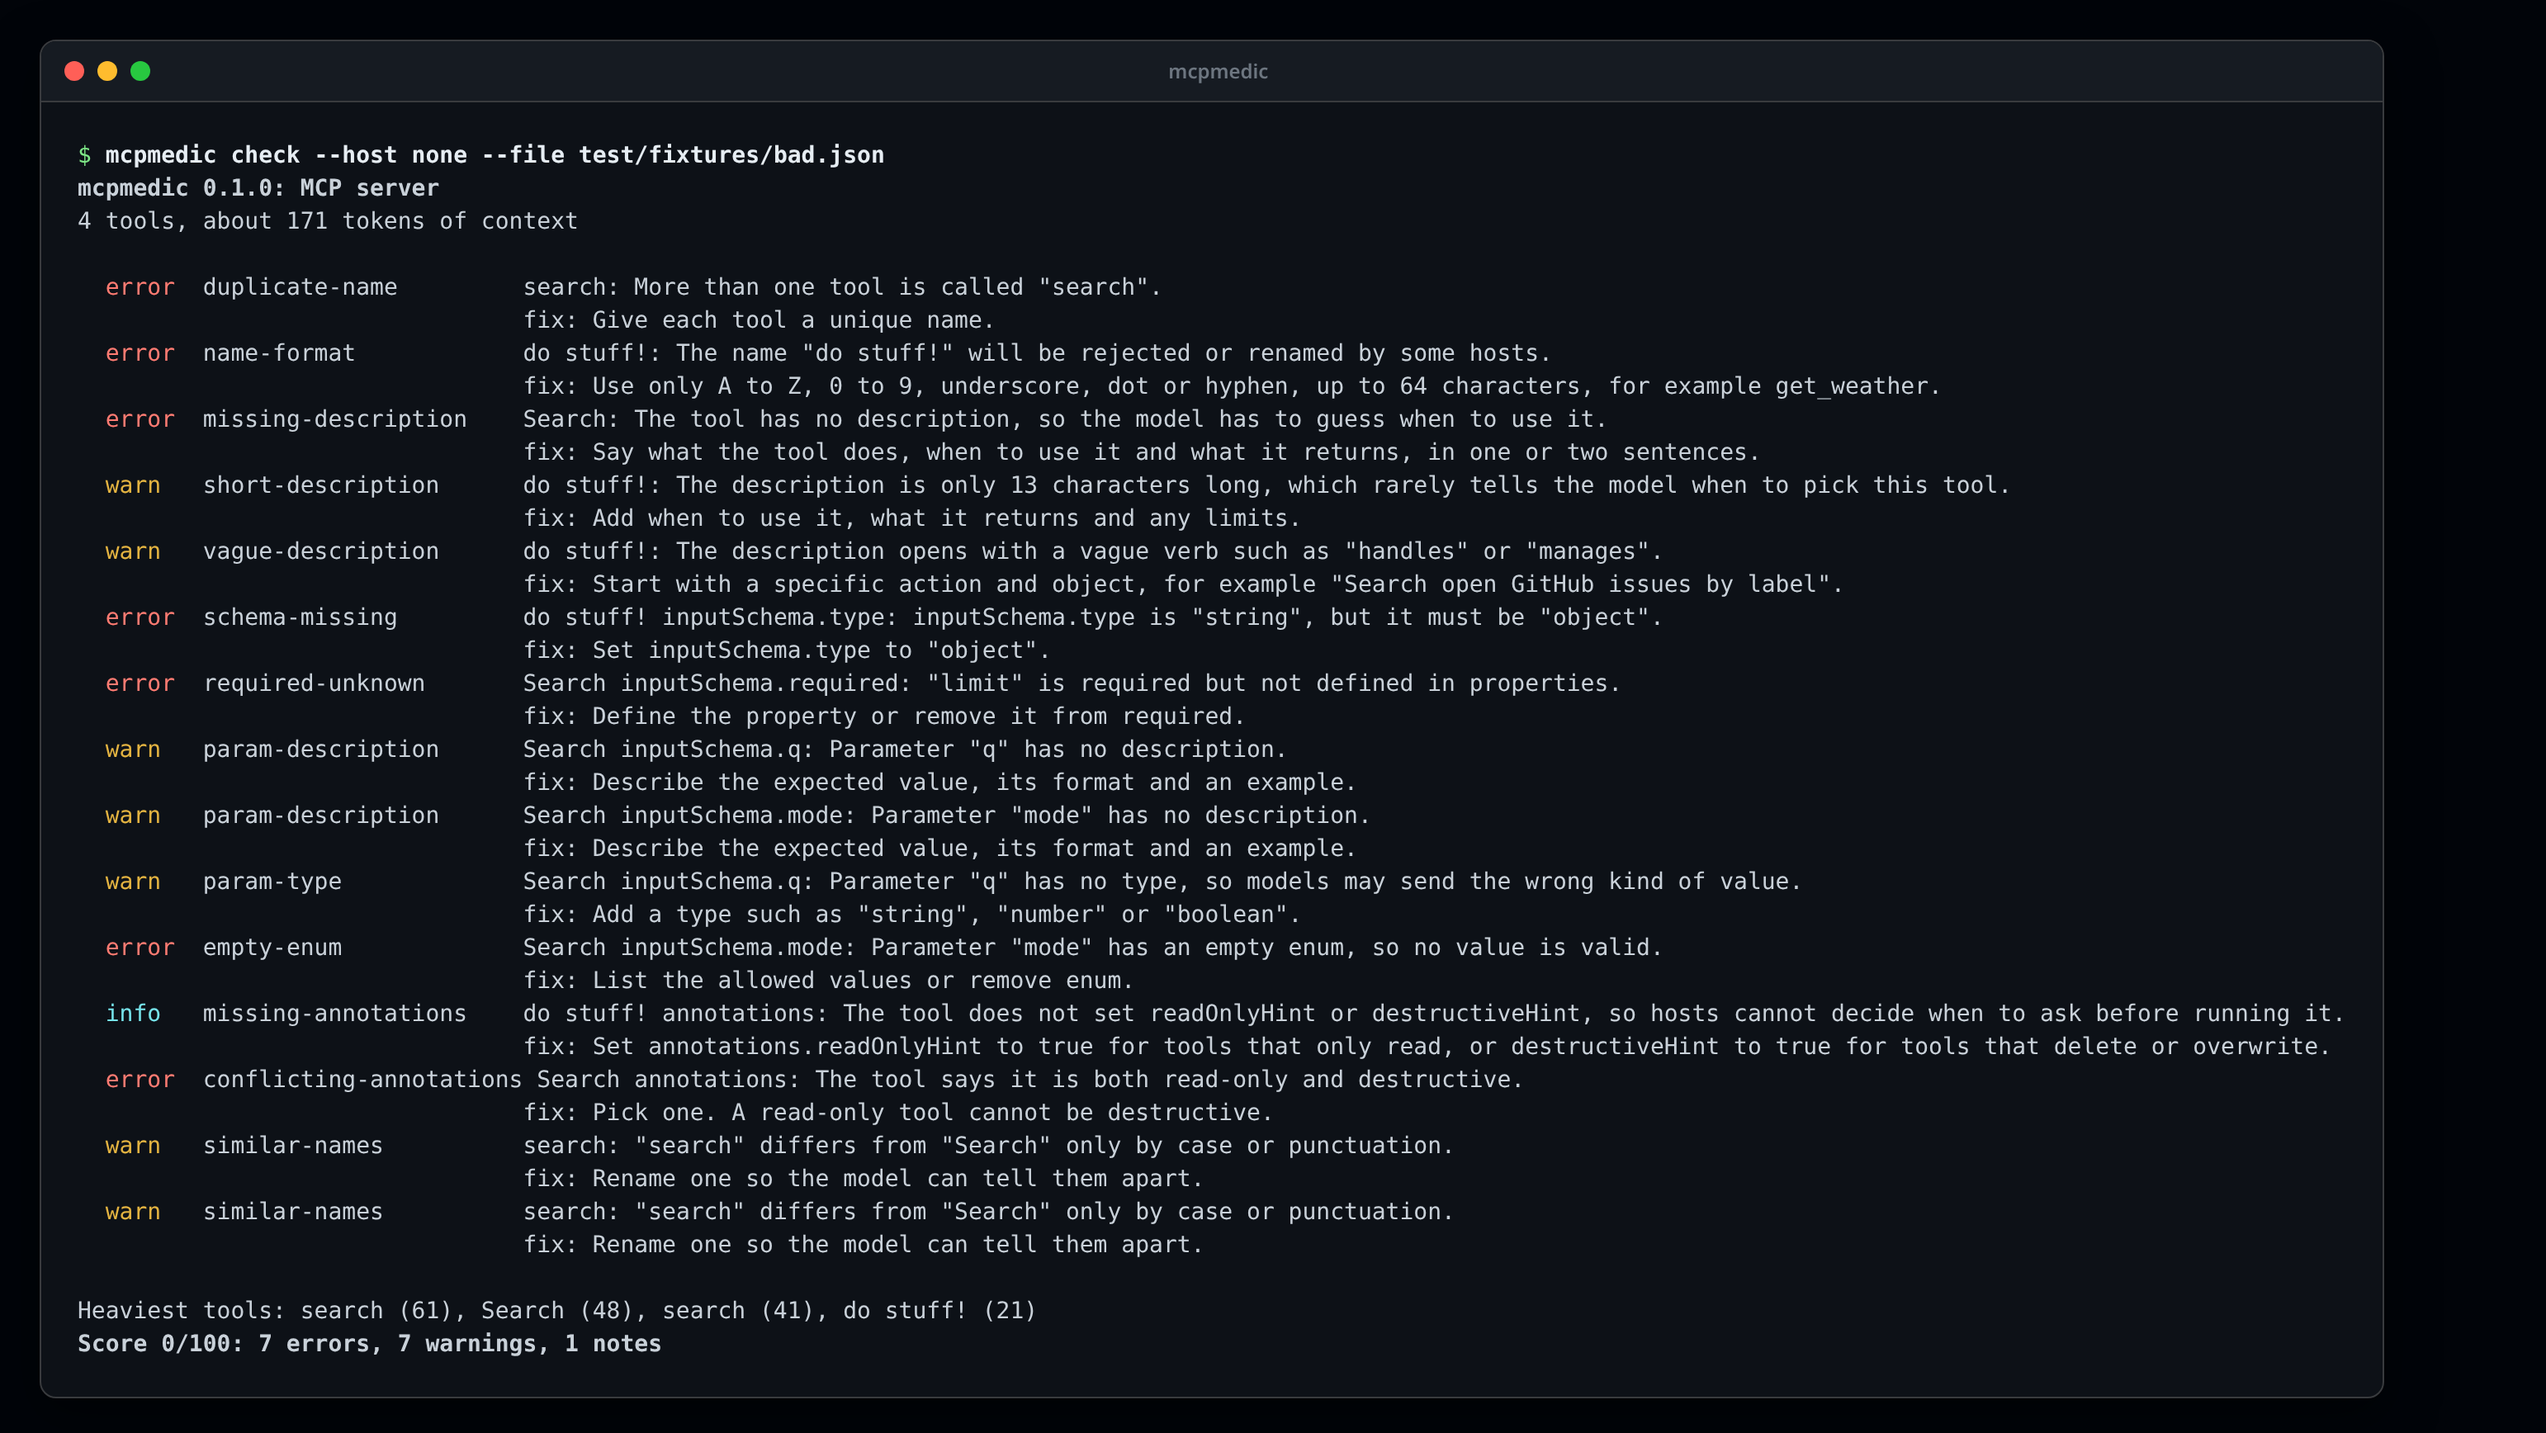
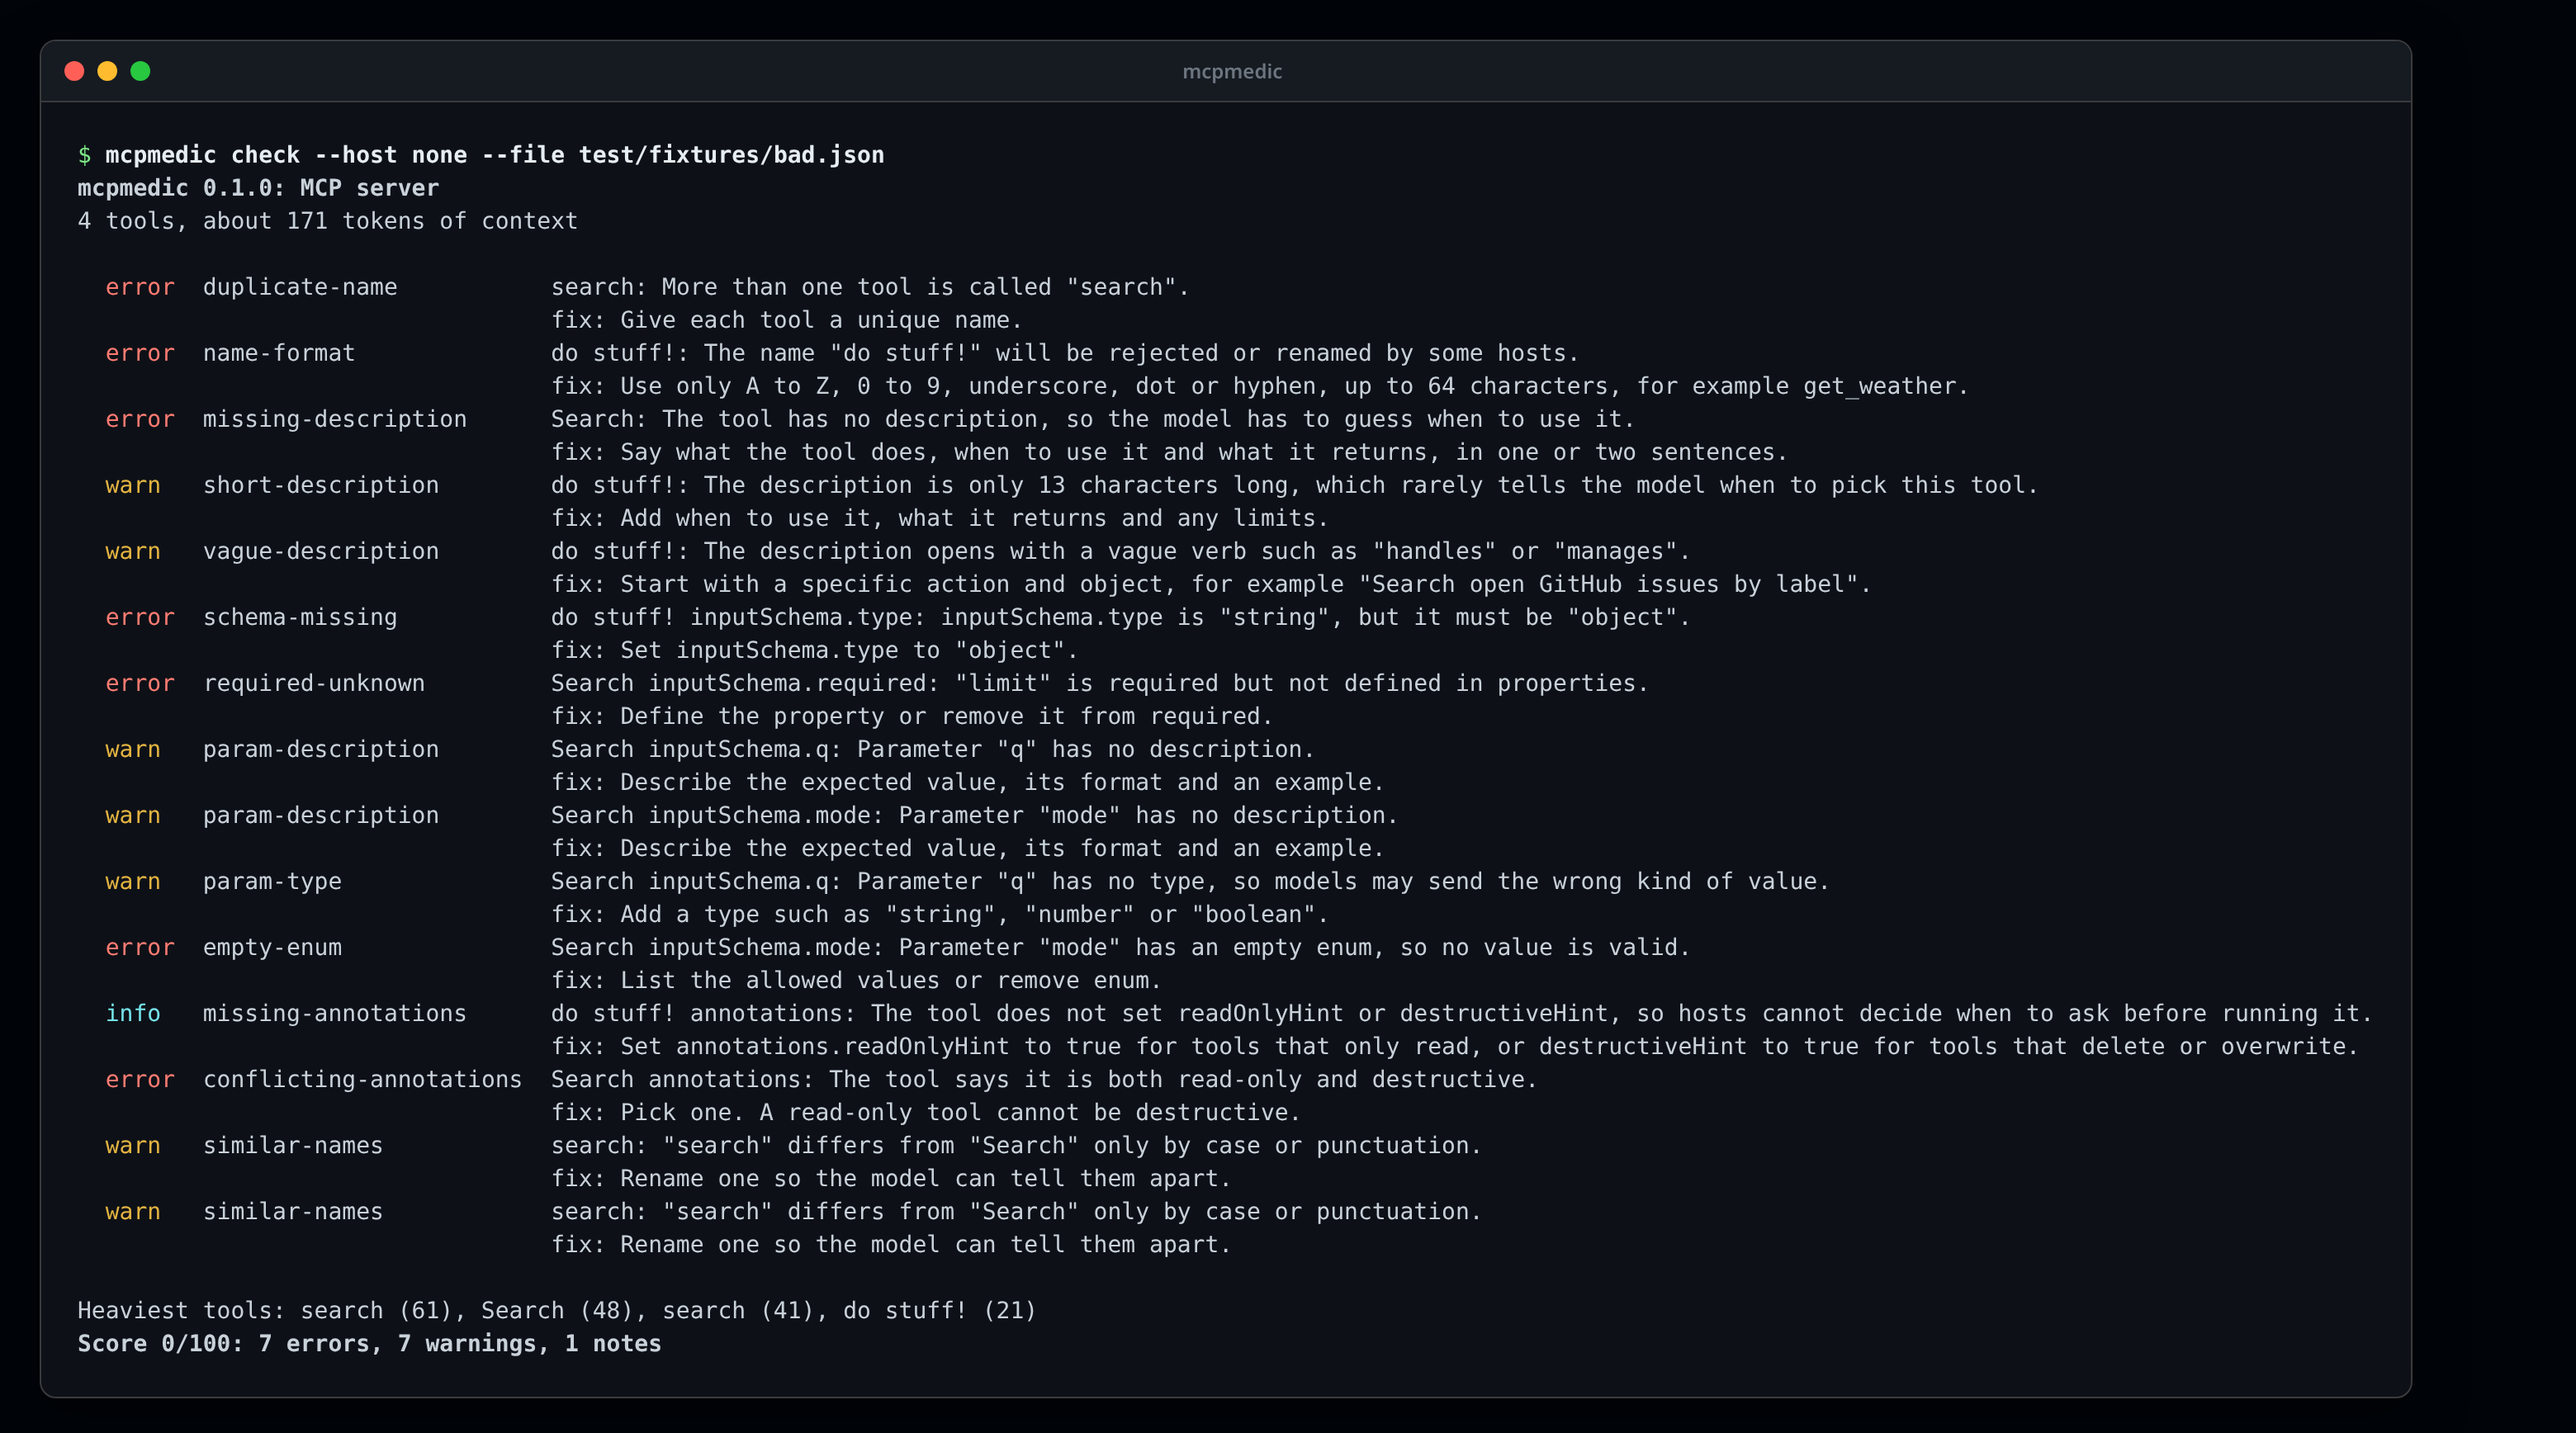
Update docs for 0.1.0 and drop the week-by-week roadmap

diff --git a/README.md b/README.md
@@ -9,11 +9,11 @@ An MCP server can pass every protocol test and still work badly in practice. Vag
 
 mcpmedic connects to your server, reads its tools, and tells you in plain language what will trip up an AI agent, how to fix it, and how much context each tool costs. It runs on your own machine, needs no account, and sends your data nowhere.
 
-> Status: early development (week 1 of 4). It is not on npm yet. Live probes, host rules, model-based evals and proven fixes are coming next. See the [roadmap](#roadmap).
+> Status: 0.1.0, the first public release. It checks tool definitions, probes live servers, applies host rules, runs tool-choice evals and proves description fixes. See the [changelog](CHANGELOG.md).
 
 ## What it checks
 
-18 checks today, all static (they read the tool definitions, they do not call your tools):
+20 static checks, which read the tool definitions without calling your tools. [Live probes](#live-probes) add 8 more.
 
 | Check | Level | What it means |
 | --- | --- | --- |
@@ -30,6 +30,8 @@ mcpmedic connects to your server, reads its tools, and tells you in plain langua
 | `param-type` | warning | Every parameter declares a type. |
 | `empty-enum` | error | Enums list at least one value. |
 | `missing-annotations` | info | Tools say whether they are read-only or destructive. |
+| `suspicious-instructions` | error | Descriptions describe the tool and do not give the model hidden orders (tool poisoning). |
+| `hidden-characters` | error | Descriptions contain no invisible or control characters. |
 | `conflicting-annotations` | error | Annotations do not contradict each other. |
 | `heavy-tool` | warning | No single tool costs more than about 800 tokens of context. |
 | `heavy-server` | warning | The whole tool list stays under about 10,000 tokens. |
@@ -80,7 +82,7 @@ Or install it once, which gives you the `mcpmedic` command:
 npm install -g @jmozez/mcpmedic
 ```
 
-The package is scoped because npm keeps the plain name for a similar existing package. The command is still `mcpmedic`. Version 0.0.0 on npm is only a placeholder. Until the first release, build from source:
+The package is scoped because npm keeps the plain name for a similar existing package. The command is still `mcpmedic`. To build from source:
 
 ```bash
 git clone https://github.com/jmozez/mcpmedic.git
@@ -106,13 +108,12 @@ mcpmedic check --file tools.json
 Example output:
 
 ```text
-mcpmedic 0.1.0-dev: MCP server
+mcpmedic 0.1.0: MCP server
 4 tools, about 171 tokens of context
 
-  error  duplicate-name         search: More than one tool is called "search".
-                                fix: Give each tool a unique name.
-  error  missing-description    Search: The tool has no description, so the model has to guess when to use it.
-                                fix: Say what the tool does, when to use it and what it returns, in one or two sentences.
+  error  duplicate-name           search: More than one tool is called "search".
+                                  fix: Give each tool a unique name.
+  error  name-format              do stuff!: The name "do stuff!" will be rejected or renamed by some hosts.
 ...
 ```
 
@@ -170,20 +171,23 @@ The HTML report is one self-contained page with no scripts, so you can attach it
 --rule <id>            run only this check (repeatable)
 --header "Name: value" add an HTTP header (repeatable), for example an Authorization header
 --env KEY=value        set an environment variable for a stdio server (repeatable)
---timeout <seconds>    give up after this long (default 30)
+--inherit-env          pass all of mcpmedic's environment to a stdio server (default: a minimal set, like MCP hosts)
+--timeout <seconds>    give up after this long, 1 to 3600 (default 30)
 ```
 
-Exit codes: 0 means no findings at or above `--fail-on`, 1 means there were, 2 means mcpmedic could not run (bad options or no connection).
+Exit codes: 0 means no findings at or above `--fail-on`, 1 means there were, 2 means mcpmedic could not run (bad options, an unknown rule or host, no connection, or a server that stopped answering).
+
+A stdio server gets a minimal environment (such as `PATH` and `HOME`) plus any `--env` values, as MCP hosts do. Your model API keys and CI tokens do not reach it. If your server needs more, pass it with `--env`, or use `--inherit-env`.
 
 ## GitHub Action
 
 ```yaml
-- uses: actions/checkout@v4
-- uses: actions/setup-node@v4
+- uses: actions/checkout@v7
+- uses: actions/setup-node@v7
   with:
     node-version: 22
 - run: npm ci && npm run build
-- uses: jmozez/mcpmedic@main
+- uses: jmozez/mcpmedic@v0
   id: medic
   with:
     command: node dist/server.js
@@ -192,17 +196,19 @@ Exit codes: 0 means no findings at or above `--fail-on`, 1 means there were, 2 m
 - run: echo "Score ${{ steps.medic.outputs.score }}"
 ```
 
-Inputs: `command`, `url` or `file` (pick one), `fail-on`, `probe`, `host` (comma-separated, or `none`), `html`, `badge` and `args` for any other options. The action writes a job summary and an HTML report, and outputs `score` and `report`. Pin a tag instead of `main` once there is a release.
+Inputs: `command`, `url` or `file` (pick one), `fail-on`, `probe`, `host` (comma-separated, or `none`), `html`, `badge` and `args` for any other options. The action writes a job summary and an HTML report, and outputs `score` and `report`. `@v0` follows the latest 0.x release. Pin `@v0.1.0` or a commit SHA for a fixed version.
+
+The action passes inputs to its script only as environment variables, splits `command` and `args` on spaces without glob expansion, and escapes server text in the job summary. If your server needs a secret, set it in the step's `env` and add `args: --inherit-env`, or use `args: --env NAME=value`.
 
 To see findings in the Security tab and on pull requests, write SARIF and upload it (the job needs `security-events: write`):
 
 ```yaml
-- uses: jmozez/mcpmedic@main
+- uses: jmozez/mcpmedic@v0
   with:
     file: tools.json
     sarif: mcpmedic.sarif
     fail-on: never
-- uses: github/codeql-action/upload-sarif@v3
+- uses: github/codeql-action/upload-sarif@v4
   with:
     sarif_file: mcpmedic.sarif
 ```
@@ -279,16 +285,13 @@ console.log(report.summary.score);
 
 Each tool starts at 100. Every error costs 10 points and every warning 3, averaged over the number of tools. Notes cost nothing. The token figures use about 4 characters per token, which is close enough to compare tools but differs a little between models.
 
-## Roadmap
+## Security
 
-1. **Week 1 (done):** CLI, connections (stdio, Streamable HTTP, SSE, file), static checks, token cost, text and JSON reports, CI.
-2. **Week 2 (done):** live probes that call each tool with valid generated input, checks that errors are useful and responses fit host size limits, an open rule pack for each host (Claude, ChatGPT, Cursor, VS Code, Codex, Gemini CLI) with a source link per rule, an HTML report, a GitHub Action and a badge.
-3. **Week 3 (done):** tool-choice evals that run on your own model key or a local model, with repeat runs to measure consistency.
-4. **Week 4 (done, release pending):** fix mode that rewrites weak descriptions and keeps only changes that improve the eval score, SARIF output, and the first public release.
+mcpmedic treats every server as untrusted. Server text cannot inject terminal escapes, HTML or Markdown into its output. API keys stay out of reports and away from stdio servers, and stalled servers fail instead of passing. See [SECURITY.md](SECURITY.md) for the threat model and how to report a vulnerability privately.
 
 ## Contributing
 
-Issues and pull requests are welcome. Run `npm test` before you open a pull request. New checks go in `src/rules/index.ts` with a test in `test/rules.test.ts`.
+Issues and pull requests are welcome. Run `npm run build && npm test` before you open a pull request, and `npm run coverage` to see what the tests miss. New checks go in `src/rules/index.ts` with a test in `test/rules.test.ts`.
 
 ## Licence
 

diff --git a/CHANGELOG.md b/CHANGELOG.md
@@ -4,7 +4,26 @@ All notable changes to mcpmedic are listed here. The format follows Keep a Chang
 
 ## [Unreleased]
 
-Planned as 0.1.0, the first public release.
+## [0.1.0] - 2026-11-03
+
+The first public release.
+
+### Security
+
+- Stdio servers get a minimal environment plus `--env` values, so model API keys and CI tokens no longer reach them. `--inherit-env` restores the full environment.
+- Control characters, bidi overrides and zero-width characters from servers or models are shown as visible `\u` escapes in text, eval, fix and HTML output, so a server cannot inject terminal escapes.
+- New `suspicious-instructions` and `hidden-characters` checks catch tool poisoning in descriptions.
+- Fix mode wraps server text in a data block for the rewriting model, and drops rewrites that look injected or run over 600 characters.
+- The Action escapes server text in the job summary and turns off glob expansion when it splits `command` and `args`.
+- SECURITY.md, CodeQL, Dependabot, and workflow actions pinned to commit SHAs.
+
+### Fixed
+
+- A server that flooded stderr or stalled could make mcpmedic exit 0 with no output. It now drains stderr, keeps its timeout alive, and exits 2 if it stops early.
+- `--timeout`, `--rule`, `--host` and `--max-tools` are validated before a server starts. An unknown `--rule` used to run nothing and score 100.
+- Stray arguments before `--` are reported instead of ignored.
+- `fix --write` refuses to overwrite the `--file` it reads.
+- Provider error bodies are put on one line in eval reports.
 
 ### Changed
 
@@ -25,7 +44,7 @@ Planned as 0.1.0, the first public release.
   - Local servers over stdio: `mcpmedic check -- <command> [args...]`, with `--env KEY=value`.
   - Remote servers over Streamable HTTP, falling back to the older HTTP+SSE transport: `--url`, with `--header`.
   - Saved tool lists: `--file tools.json`, either `{ "tools": [...] }` or a bare array.
-- 17 static checks of tool definitions: names, descriptions, input schemas, parameters, enums, annotations, duplicates, look-alike names and context cost.
+- 20 static checks of tool definitions: names, descriptions, input schemas, parameters, enums, annotations, duplicates, look-alike names, context cost and tool poisoning.
 - A token estimate for each tool and for the whole server.
 - A text report with a fix for each finding, a score out of 100 and the heaviest tools.
 - `--json` output for scripts and CI.
@@ -33,3 +52,6 @@ Planned as 0.1.0, the first public release.
 - `mcpmedic rules` lists every check.
 - A library entry point, so other tools can call the checks directly.
 - Tests, including one against a real stdio server, and CI on Linux and Windows.
+
+[Unreleased]: https://github.com/jmozez/mcpmedic/compare/v0.1.0...HEAD
+[0.1.0]: https://github.com/jmozez/mcpmedic/releases/tag/v0.1.0

diff --git a/RELEASING.md b/RELEASING.md
@@ -1,10 +1,10 @@
 # Releasing
 
-Releases are made by hand by the maintainer, jmozez. Nothing here runs automatically.
+Releases are made by hand by the maintainer, jmozez. Nothing here runs automatically. Publishing needs the maintainer's npm security key.
 
-1. Check that `main` is green in CI, including the `package` job, which installs the packed tarball and runs it.
+1. Check that `main` is green in CI, including the `package` job, which installs the packed tarball and runs it, and that CodeQL has no open alerts.
 2. Check that `version` in `package.json` is right, and that `CHANGELOG.md` lists every change under that version with today's date.
-3. Run `npm ci && npm run typecheck && npm test && npm pack --dry-run`. Check the file list: `dist`, `hosts`, `action.yml`, `README.md`, `CHANGELOG.md` and `LICENSE`.
+3. Run `npm ci && npm audit && npm run typecheck && npm run build && npm test && npm pack --dry-run`. Check the file list: `dist`, `hosts`, `action.yml`, `README.md`, `CHANGELOG.md` and `LICENSE`.
 4. Check that `hosts/hosts.yaml` has been reviewed within the last month, and update its `version` if any rule changed.
 5. Publish with `npm publish`. `prepublishOnly` runs the type check and tests again, and `publishConfig` makes the scoped package public. To add provenance later, publish from a GitHub workflow with `npm publish --provenance`.
 6. Tag the commit `vX.Y.Z`, push the tag, and create a GitHub release with the changelog section as its notes.
